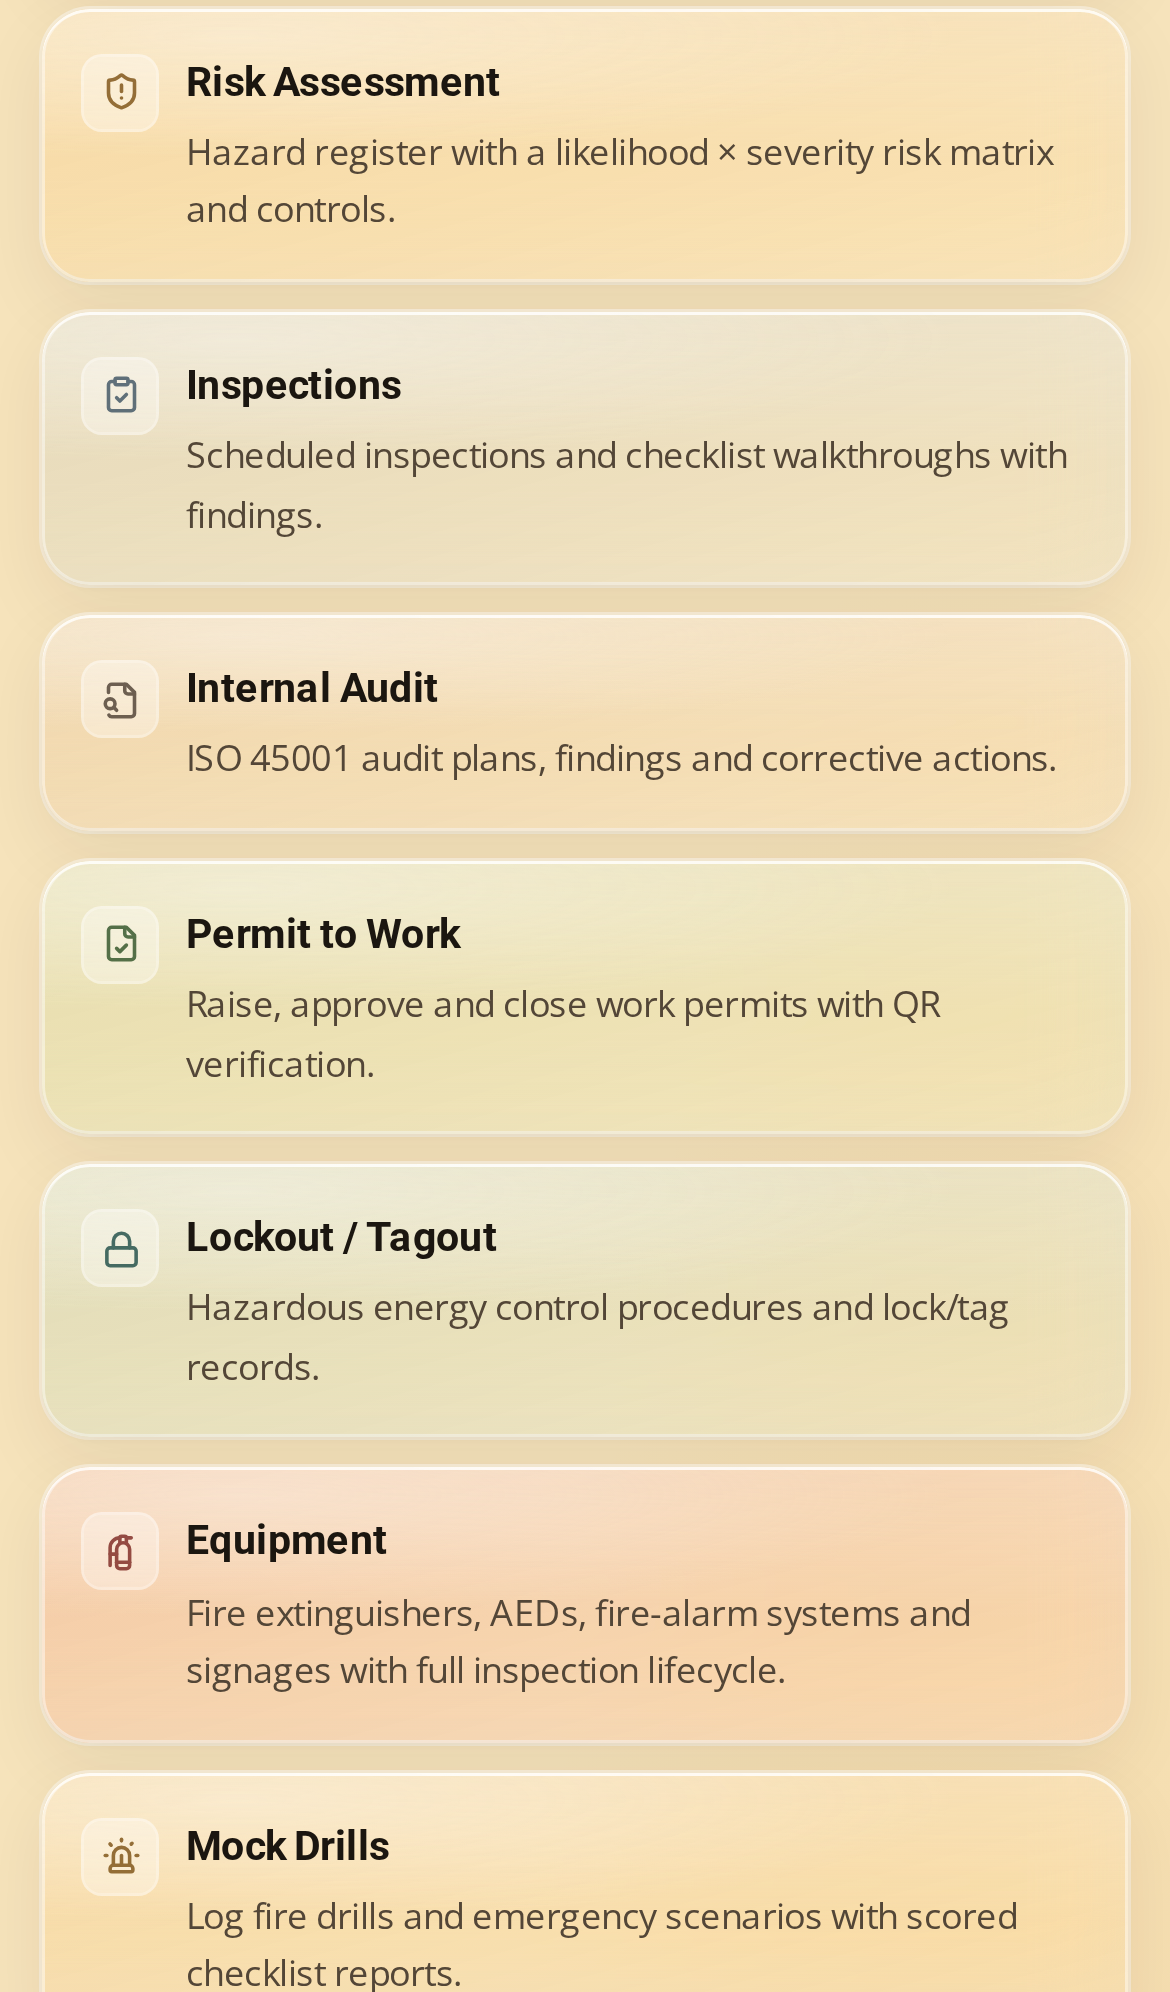
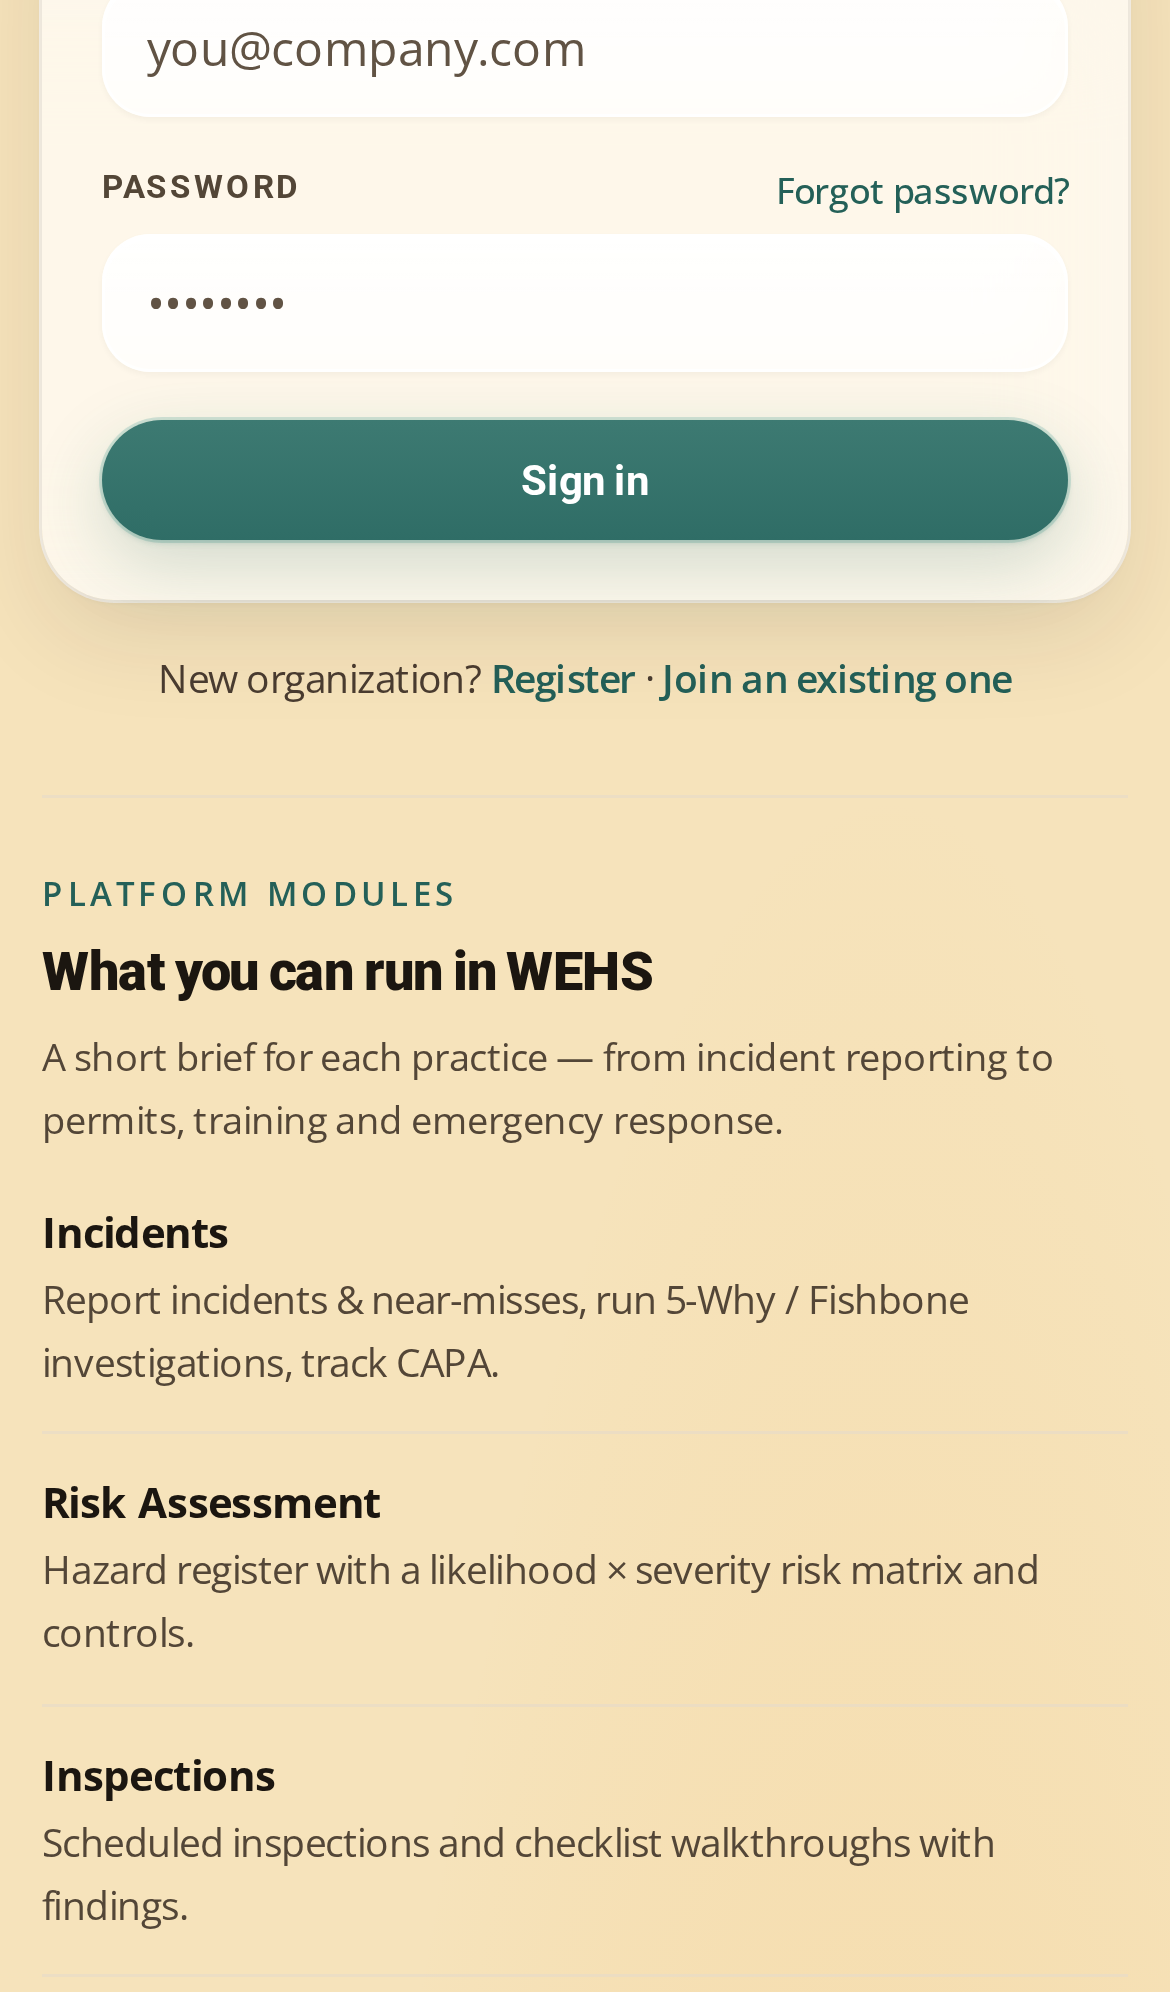
Replace login module tiles with a line list of briefs
Glass cards still read as a gallery. Each module is now a name and its
description in a hairline-separated list, stacked the same way on a phone.

diff --git a/src/pages/auth/LoginModules.jsx b/src/pages/auth/LoginModules.jsx
@@ -3,47 +3,13 @@
 //
 // Visitors see what the platform covers before they authenticate. Copy comes
 // from `MODULES` in the registry — the same names and descriptions the signed-in
-// dashboard already uses — so inventing a second catalogue cannot drift. Tiles
+// dashboard already uses — so inventing a second catalogue cannot drift. Rows
 // are not links: there is nowhere to go until sign-in succeeds.
 //
-// Layout is text-forward on purpose. An earlier pass put a large centred mark
-// above a short label and read as a logo gallery; the brief is the point here.
-// On phones: single column, compact padding, hairline under the form so the
-// stack stays readable without oversized marks.
+// A line list, not tiles. Glass cards (even text-forward ones) still read as a
+// gallery. Each module is a name and its brief, stacked with a hairline.
 // ─────────────────────────────────────────────────────────────────────────────
 import { MODULES } from '../../shared/modules/registry'
-
-/**
- * One Liquid Glass entry: module name + readable brief, with a small icon accent.
- */
-function ModuleBrief({ tone, icon: Icon, label, description }) {
-  return (
-    <article
-      data-tone={tone}
-      className="glass-tile relative flex items-start gap-2.5 rounded-2xl p-3.5 text-left sm:gap-3 sm:p-4"
-    >
-      {/* Accent only — sized so it never competes with the brief. */}
-      <span
-        className="mt-0.5 grid h-6 w-6 flex-none place-items-center rounded-md bg-white/35 ring-1 ring-white/50 sm:h-7 sm:w-7 sm:rounded-lg"
-        aria-hidden="true"
-      >
-        <Icon
-          size={14}
-          strokeWidth={2.2}
-          className="block size-[13px] opacity-80 sm:size-[14px]"
-        />
-      </span>
-      <div className="min-w-0 flex-1">
-        <h3 className="text-[13.5px] font-bold tracking-[-0.015em] text-ink-900 sm:text-[14px]">
-          {label}
-        </h3>
-        <p className="mt-1 break-words text-[12px] leading-relaxed text-ink-500 sm:text-[12.5px]">
-          {description}
-        </p>
-      </div>
-    </article>
-  )
-}
 
 export default function LoginModules() {
   return (
@@ -62,19 +28,15 @@ export default function LoginModules() {
       </h2>
       <p className="mt-1.5 max-w-[52ch] text-[12.5px] leading-relaxed text-ink-500 sm:text-[13px]">
         A short brief for each practice — from incident reporting to permits,
-        training and emergency response — under one amber glass shell.
+        training and emergency response.
       </p>
-      {/* Single column on phones; two columns only once there is real width
-          (md), so briefs stay readable instead of squashed side-by-side. */}
-      <ul className="mt-4 grid list-none gap-2.5 p-0 sm:mt-5 sm:gap-3 md:grid-cols-2">
+      <ul className="mt-4 list-none divide-y divide-ink-200/70 p-0 sm:mt-5">
         {MODULES.map((m) => (
-          <li key={m.key}>
-            <ModuleBrief
-              tone={m.tone}
-              icon={m.icon}
-              label={m.label}
-              description={m.description}
-            />
+          <li key={m.key} className="py-3 first:pt-0 last:pb-0">
+            <p className="text-[14px] font-bold tracking-[-0.015em] text-ink-900">{m.label}</p>
+            <p className="mt-0.5 break-words text-[13px] leading-relaxed text-ink-500">
+              {m.description}
+            </p>
           </li>
         ))}
       </ul>

diff --git a/src/pages/auth/LoginModules.test.jsx b/src/pages/auth/LoginModules.test.jsx
@@ -9,33 +9,25 @@ describe('LoginModules', () => {
     render(<LoginModules />)
     expect(screen.getByRole('heading', { name: /what you can run in wehs/i })).toBeTruthy()
     for (const m of MODULES) {
-      expect(screen.getByRole('heading', { name: m.label })).toBeTruthy()
+      expect(screen.getByText(m.label)).toBeTruthy()
       expect(screen.getByText(m.description)).toBeTruthy()
     }
   })
 
-  it('keeps icons as small accents beside text-forward briefs', () => {
+  it('is a line list, not a tile grid', () => {
     const { container } = render(<LoginModules />)
-    const tiles = container.querySelectorAll('.glass-tile')
-    expect(tiles.length).toBe(MODULES.length)
+    expect(container.querySelector('.glass-tile')).toBeNull()
+    expect(container.querySelector('svg')).toBeNull()
     const list = container.querySelector('ul')
-    // Narrow phones stay single-column; two columns only from md up.
-    expect(list.className).toMatch(/md:grid-cols-2/)
-    expect(list.className).not.toMatch(/(?:^|\s)sm:grid-cols-2(?:\s|$)/)
-    tiles.forEach((tile) => {
-      // Text-forward: left-aligned row, not a centred logo stack.
-      expect(tile.className).toMatch(/items-start/)
-      expect(tile.className).toMatch(/text-left/)
-      expect(tile.className).not.toMatch(/items-center/)
-      expect(tile.className).not.toMatch(/text-center/)
-      expect(tile.className).not.toMatch(/min-h-\[152px\]/)
-      const accent = tile.querySelector('[class*="h-6"][class*="w-6"]')
-      expect(accent).toBeTruthy()
-      const icons = accent.querySelectorAll('svg')
-      expect(icons.length).toBe(1)
-      expect(icons[0].getAttribute('width')).toBe('14')
-      const brief = tile.querySelector('p')
-      expect(brief?.textContent?.length).toBeGreaterThan(20)
+    expect(list.className).toMatch(/divide-y/)
+    expect(list.className).not.toMatch(/grid-cols/)
+    const rows = list.querySelectorAll('li')
+    expect(rows.length).toBe(MODULES.length)
+    rows.forEach((row) => {
+      const name = row.querySelector('p')
+      const brief = row.querySelectorAll('p')[1]
+      expect(name.textContent.length).toBeGreaterThan(0)
+      expect(brief.textContent.length).toBeGreaterThan(20)
     })
   })
 })
